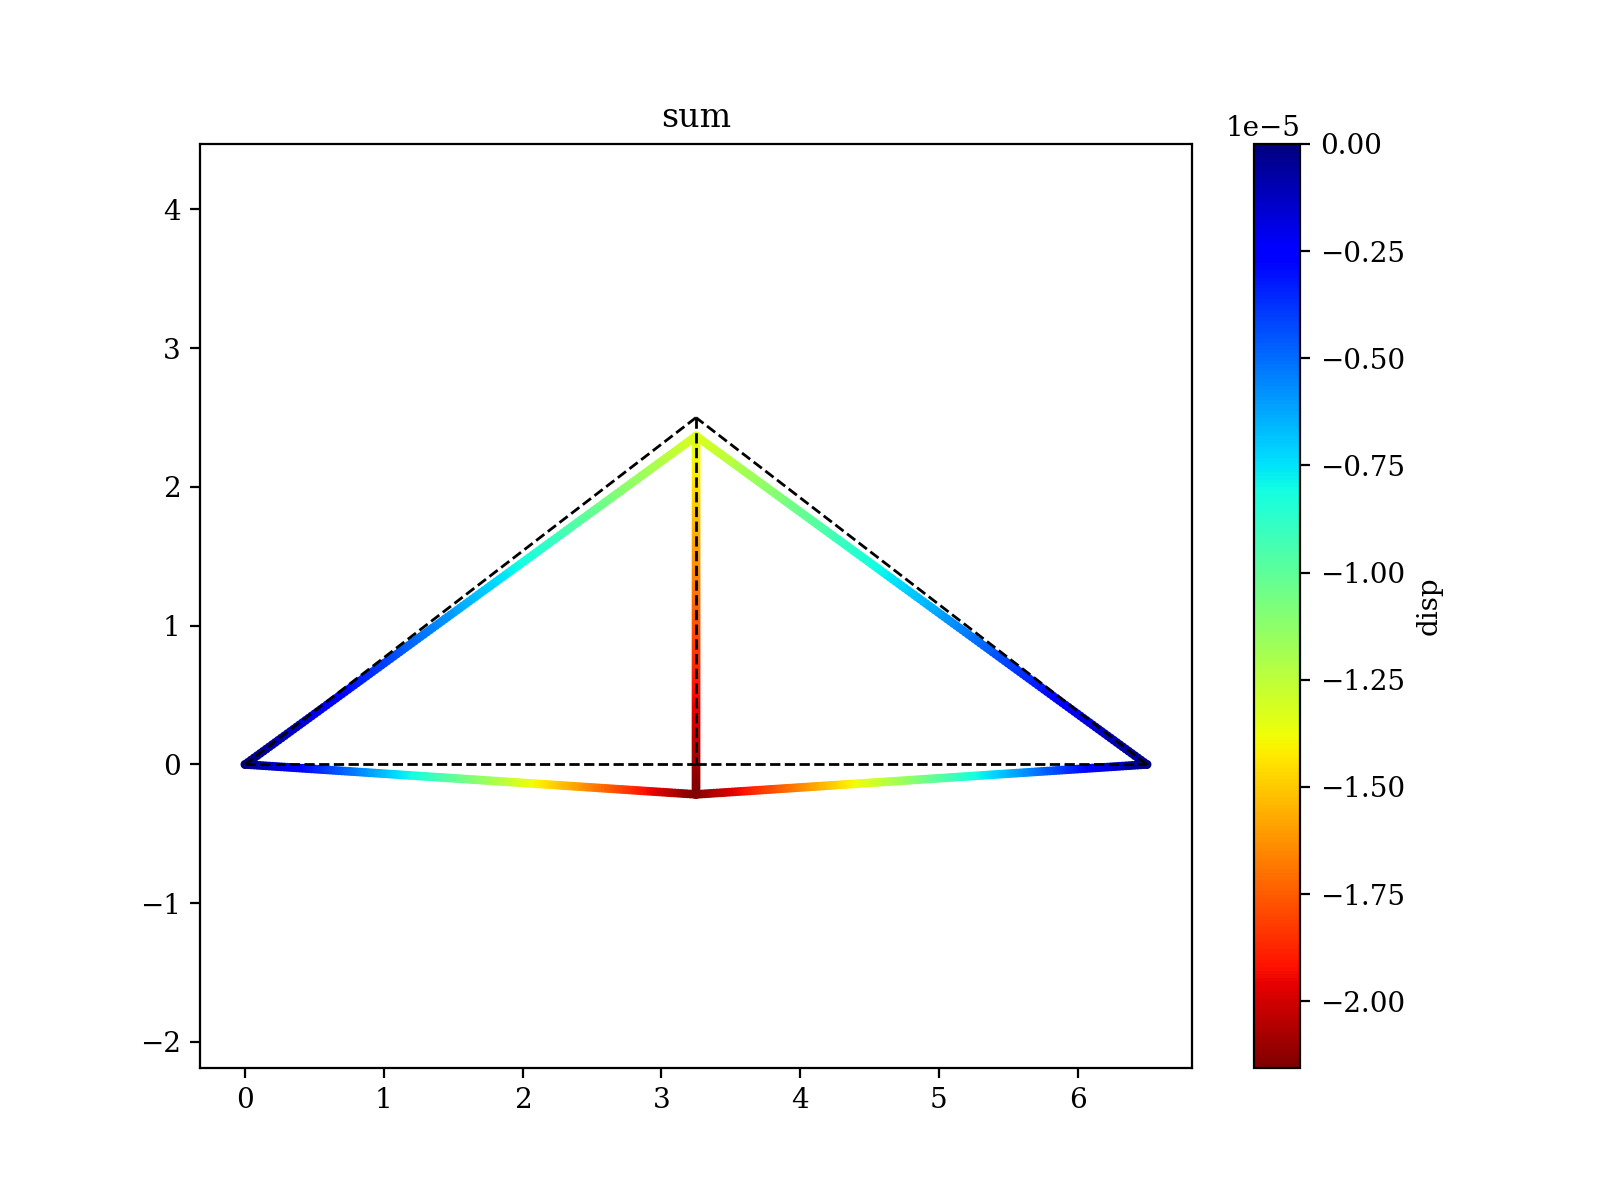
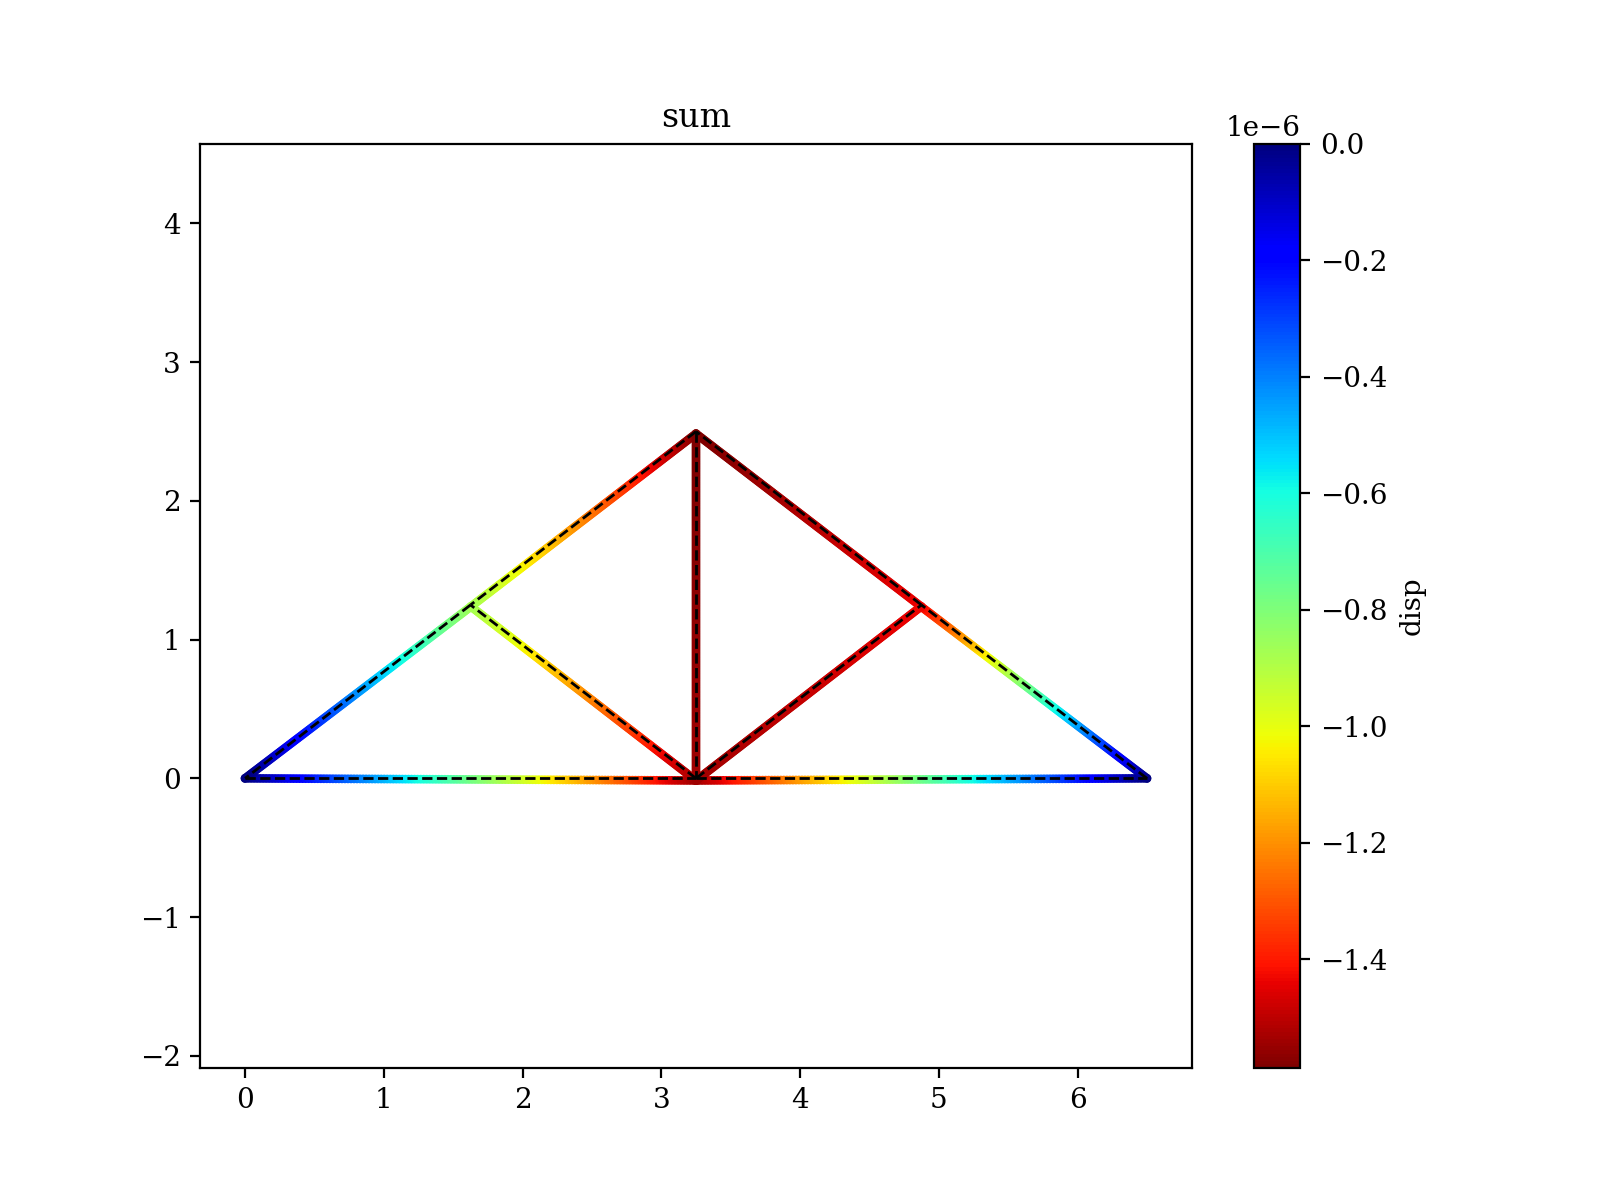
visualisation bois dans geom2D

diff --git a/src/Code_FEM_v5.py b/src/Code_FEM_v5.py
@@ -57,9 +57,6 @@ class Mesh :
         self.Section = np.empty((0,2))
         self.S_list = np.array(S_list)
         self.I_list = np.array(I_list)
-        self.S = h*b
-        self.Iy = b*h**3/12
-        self.Iz = h*b**3/12
         self.debug = debug
     
     def add_node(self,node) : 
@@ -176,27 +173,46 @@ class Mesh :
             fig = self.geom3D(pic)
         return fig
     
-    def geom2D(self, pic = False, path = "./") : 
-        fig = plt.figure(figsize=(8,6))
-        x = [x for x in self.node_list[:,0]]
-        y = [y for y in self.node_list[:,1]]
-        size = 200
-        offset = size/40000.
-        plt.scatter(x, y, c='k', marker = "s", s=size, zorder=5)
+    def geom2D(self, pic=False, path="./"):
+        fig = plt.figure(figsize=(8, 6))
+        ax = fig.add_subplot(111)
+        x = [x for x in self.node_list[:, 0]]
+        y = [y for y in self.node_list[:, 1]]
+        size = 10
+        offset = size / 40000.
+        ax.scatter(x, y, c='k', marker="s", s=size, zorder=5)
         color_list = []
-        for i, location in enumerate(zip(x,y)):
-            plt.annotate(i+1, (location[0]-offset, location[1]-offset), zorder=10)
-        for i in range(len(self.element_list)) :
-            xi,xj = self.node_list[self.element_list[i,0]-1,0],self.node_list[self.element_list[i,1]-1,0]
-            yi,yj = self.node_list[self.element_list[i,0]-1,1],self.node_list[self.element_list[i,1]-1,1]
-            plt.plot([xi,xj],[yi,yj],color = self.color[i], lw = 2, linestyle = '--', label = self.name[i] if self.color[i] not in color_list else '')
+        for i, location in enumerate(zip(x, y)):
+            ax.annotate(i + 1, (location[0] - offset, location[1] - offset), zorder=10)
+        for i in range(len(self.element_list)):
+            xi, xj = self.node_list[self.element_list[i, 0] - 1, 0], self.node_list[self.element_list[i, 1] - 1, 0]
+            yi, yj = self.node_list[self.element_list[i, 0] - 1, 1], self.node_list[self.element_list[i, 1] - 1, 1]
+            ax.plot([xi, xj], [yi, yj], color=self.color[i], lw=2, linestyle='--',
+            label=self.name[i] if self.color[i] not in color_list else '')
+
+            h = self.Section[i][0]/100
+
+            if xi != xj :
+                pt1 = [xi , yi - h/2]
+                pt2 = [xj , yj-h/2]
+                pt3 = [xj , yj + h/2]
+                pt4 = [xi, yi + h/2]
+            else :
+                pt1 = [xi - h/2 , yi]
+                pt2 = [xj -h/2 , yj]
+                pt3 = [xj + h/2, yj ]
+                pt4 = [xi + h/2, yi ]
+
+            x = pt1[0], pt2[0], pt3[0], pt4[0], pt1[0]
+            y = pt1[1], pt2[1], pt3[1], pt4[1], pt1[1]
+            ax.add_patch(Polygon(xy=list(zip(x, y)), color=self.color[i], fill=True, alpha=0.3, lw=0))
             # pour verifier que la legende n'existe pas deja
-            if (self.color == self.color[i]).sum() > 1 : 
+            if (self.color == self.color[i]).sum() > 1:
                 color_list.append(self.color[i])
-        plt.axis('equal')
-        plt.legend()
+        ax.axis('equal')
+        ax.legend()
         plt.grid()
-        if pic : 
+        if pic:
             plt.savefig(path + 'geom.png', format='png', dpi=200)
         return fig
     
@@ -438,7 +454,7 @@ class FEM_Model() :
             rot = self.Rot(c,s)
             h, b = self.mesh.Section[i,0], self.mesh.Section[i,1]
             # rotation matrice elem
-            K_rot = rot.dot(self.K_elem(L_e, h , b)).dot(np.transpose(rot))
+            K_rot = np.transpose(rot).dot(self.K_elem(L_e, h , b)).dot(rot)
             M_global = M_global + self.changement_base(BB[i],K_rot)
         return M_global
 
@@ -559,7 +575,7 @@ class FEM_Model() :
             plt.plot([xi,xj],[yi,yj],color = self.mesh.color[i], lw = 1, linestyle = '--')
         ### Trace les efforts
         if type == 'nodal':
-            plt.quiver(NL[:,0], NL[:,1], F[:,0], F[:,1], color='r', angles='xy', scale_units='xy', scale=scale_force)
+            plt.quiver(NL[:,0] - F[:,0]/scale_force , NL[:,1] - F[:,1]/scale_force , F[:,0], F[:,1], color='r', angles='xy', scale_units='xy', scale=scale_force)
         elif type == 'dist':
             for elem in self.dist_load[1:]:
                 pt1 = self.mesh.node_list[elem[0]-1]
@@ -768,50 +784,59 @@ def test_2d() :
     mesh.add_node([p/2,0])
     mesh.add_node([p,0])
     mesh.add_node([p/2,h])
+    mesh.add_node([p/4,h/2])
+    mesh.add_node([3*p/4,h/2])
     mesh.add_element([1,2], "entrait", "r", 22, 10)
     mesh.add_element([2,3], "entrait", "r", 22 , 10)
-    mesh.add_element([3,4], "arba", "g", 20, 8)
-    mesh.add_element([4,1], "arba", "g", 20, 8)
+    mesh.add_element([3,6], "arba", "g", 20, 8)
+    mesh.add_element([6,4], "arba", "g", 20, 8)
+    mesh.add_element([4,5], "arba", "g", 20, 8)
+    mesh.add_element([5,1], "arba", "g", 20, 8)
     mesh.add_element([4,2], "poinçon", "b", 10, 10)
+    mesh.add_element([2,5], "jdf", "m", 10,10)
+    mesh.add_element([2,6], "jdf", "m", 10,10)
     mesh.geom()
     #mesh.node_table()
     
     f = FEM_Model(mesh)
     f.apply_load([0,-1000,0],4)
     f.apply_bc([1,1,1],1)
-    f.apply_bc([1,1,0],3)
-    f.get_bc()
-    f.apply_distributed_load(2000, [1,2])
-    f.apply_distributed_load(2000, [2,3])
-    f.plot_forces(type = 'dist', pic = True)
+    f.apply_bc([1,1,1],3)
+    print(f.get_bc())
+    #f.apply_distributed_load(2000, [1,4])
+    #f.apply_distributed_load(2000, [4,3])
+    f.plot_forces(type = 'nodal', pic = True)
     f.solver_frame()
     U, React, res = f.get_res()
     #f.plot_disp_f(dir='x', pic = True)
     #f.plot_disp_f(dir='y' , pic = True)
-    f.plot_disp_f(dir='sum', pic = True)
+    f.plot_disp_f(dir='x', pic = True)
     #f.plot_disp_f_ex()
     f.U_table()
     f.R_table()
-    f.stress()
+   # f.stress()
     #f.rapport()
     return 
 
 def test_cantilever() : 
-    mesh = Mesh(2,[[0,0],[3,0]],[[1,2]],debug=False)
+    mesh = Mesh(2,[],[],debug=False)
+    mesh.add_node([0,0])
+    mesh.add_node([1,0])
+    mesh.add_node([2,0])
     mesh.add_node([4,0])
     mesh.add_node([5,0])
-    mesh.add_node([6,0])
-    mesh.add_element([2,3])
-    mesh.add_element([3,4])
-    mesh.add_element([4,5])
+    mesh.add_element([1,2], "entrait", "r", 22, 10)
+    mesh.add_element([2,3], "entrait", "r", 22, 10)
+    mesh.add_element([3,4], "entrait", "r", 22, 10)
+    mesh.add_element([4,5], "entrait", "r", 22, 10)
     mesh.node_table()
     f = FEM_Model(mesh)
     f.apply_load([0,-1000,0],5)
     f.apply_bc([1,1,1],1)
-    f.plot_forces()
+    f.plot_forces(type = 'dist', pic = False)
     f.solver_frame()
     U, React = f.get_res()
-    f.plot_disp_f_ex(scale=1e2)
+    #f.plot_disp_f_ex(scale=1e2)
     f.plot_disp_f(scale=1e2,dir='y')
     f.U_table()
     return 
